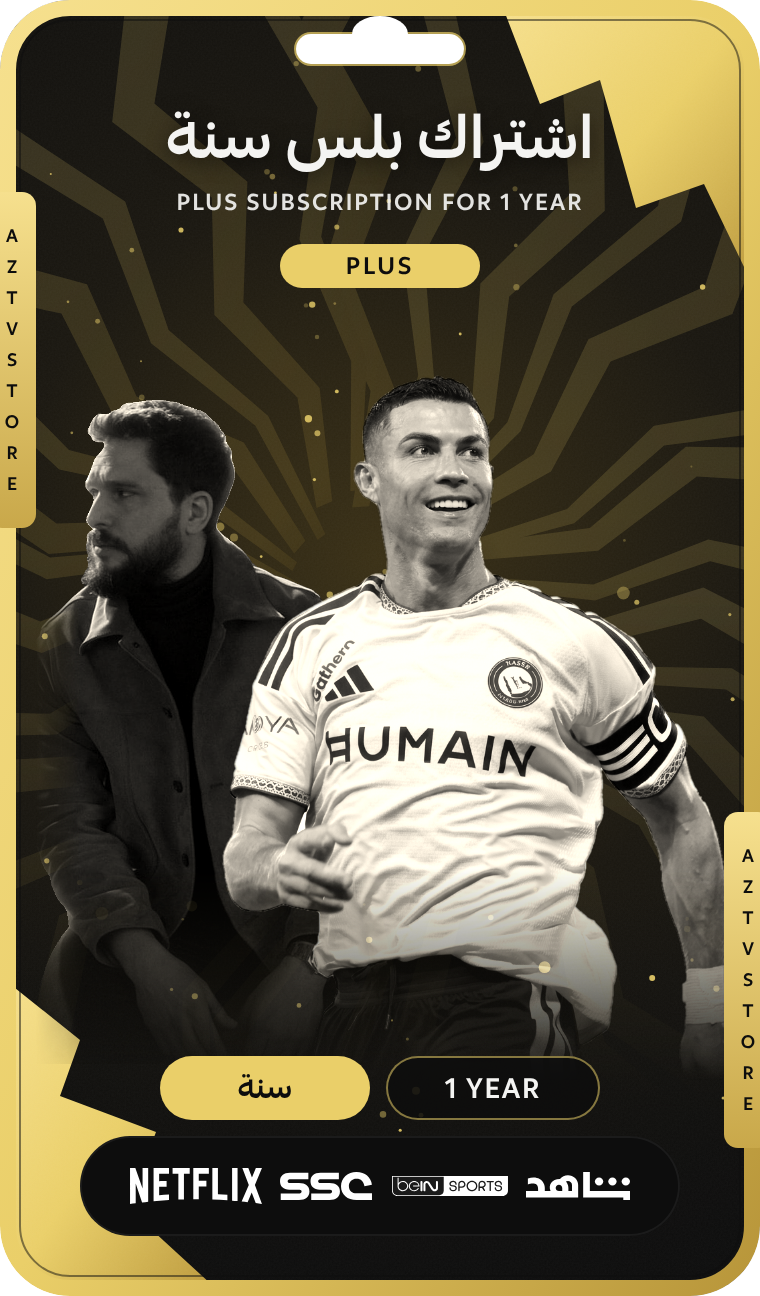
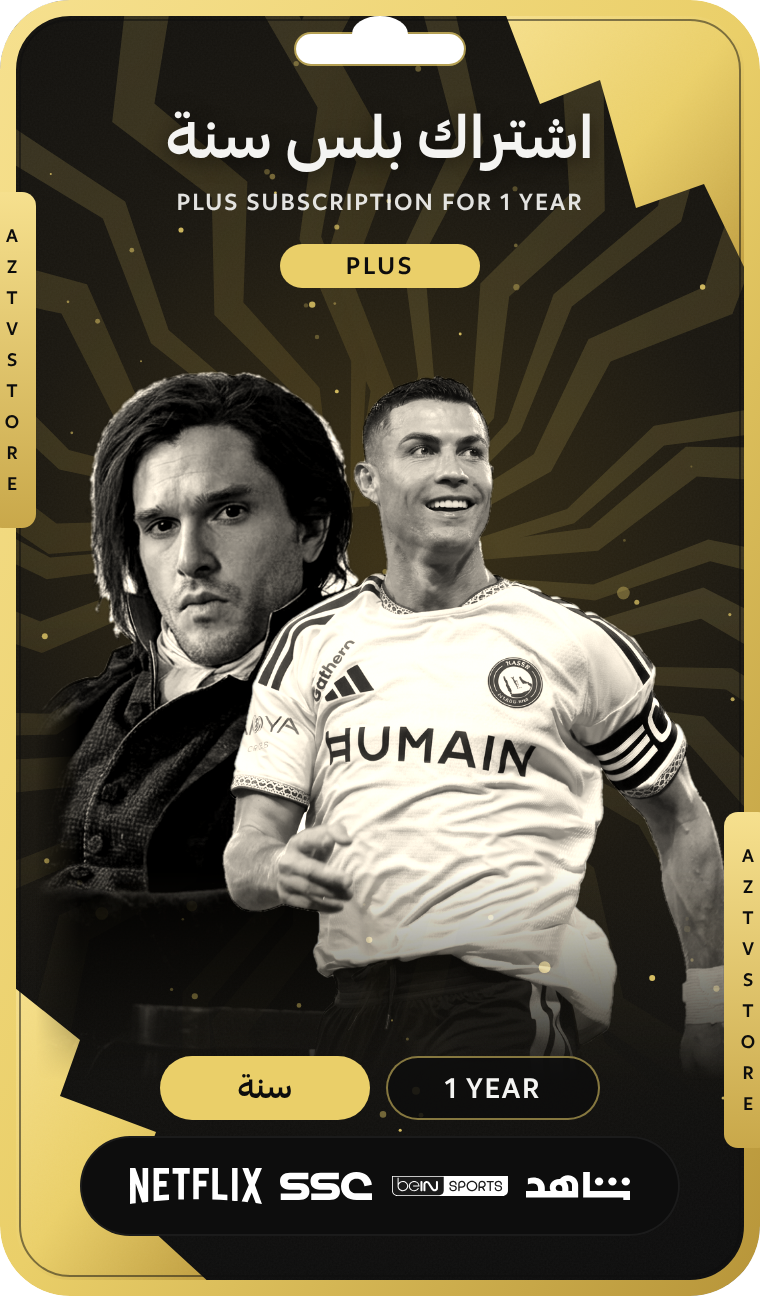
Trial Plus card: use photo 008 for the left portrait
Claude-Session: https://claude.ai/code/session_01D8XCbG6TVkErSujRZYkAkh

Changed region(s): [[0.0605, 0.2778, 0.4842, 0.7716], [0.3632, 0.7099, 0.4237, 0.8025]]

diff --git a/05-design/shared/subscription-cards/card.html b/05-design/shared/subscription-cards/card.html
@@ -54,7 +54,7 @@ const CARDS = {
     ar: "اشتراك بلس سنة", en: "PLUS SUBSCRIPTION FOR 1 YEAR", dEn: "1 YEAR", dAr: "سنة",
     // left portrait sits behind the right one; x, width in card px (left is the card's left edge of the photo area)
     photos: [
-      { src: "stars/latest-roles/vertical/transparent/02-kit-harington-the-family-plan-2.png", left: -52, width: 330, top: 19 },
+      { src: "photos/transparent/008-man-long-hair-dark-coat-chair.png", left: -215, width: 430, top: 52 },
       { src: "photos/transparent/006-yellow-navy-kit-captain.png", left: 62, width: 300, top: 76 }
     ],
     logos: [["netflix.svg", 66], ["ssc.svg", 46], ["bein-white.svg", 58], ["shahid.svg", 52]]

diff --git a/05-design/shared/subscription-cards/README.md b/05-design/shared/subscription-cards/README.md
@@ -37,7 +37,7 @@ The face photos for the cards (cut-outs on white, delivered in batches) are in `
 
 ## Trial card (2026-10-24)
 
-`new/plus-12m.png` is a first trial of card 5 (بلس سنة), to settle the look before the other nine. Built from `card.html` (`?card=plus-12m`, title, two portraits, duration, platform logos on `bg/card-bg-aztv-plus.png`) and exported with `node render-cards.cjs plus-12m`. The portraits are stand-ins: one star from `stars/latest-roles/vertical/transparent/`, one player cut out of `photos/originals/` with `photos/cutout-white.py` (output in `photos/transparent/`, needs `pip install scipy`). Both are shown black and white with a warm tint, as on the old Plus card.
+`new/plus-12m.png` is a first trial of card 5 (بلس سنة), to settle the look before the other nine. Built from `card.html` (`?card=plus-12m`, title, two portraits, duration, platform logos on `bg/card-bg-aztv-plus.png`) and exported with `node render-cards.cjs plus-12m`. The portraits are photos 008 (left) and 006 (right) from `photos/originals/`, cut out with `photos/cutout-white.py` (output in `photos/transparent/`, needs `pip install scipy`); who goes on which card is not decided yet. Both are shown black and white with a warm tint, as on the old Plus card.
 
 ## How we work
 
